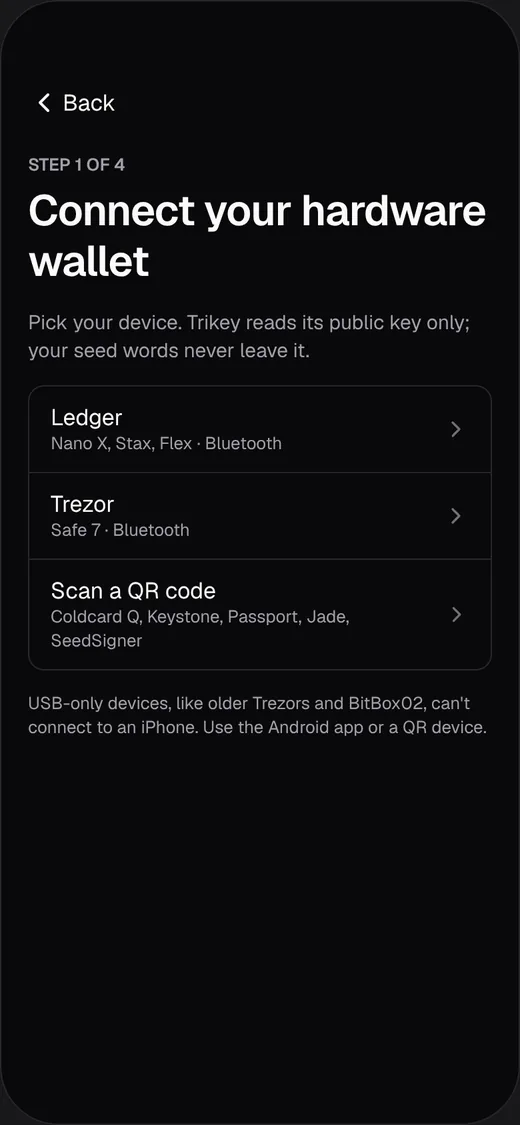
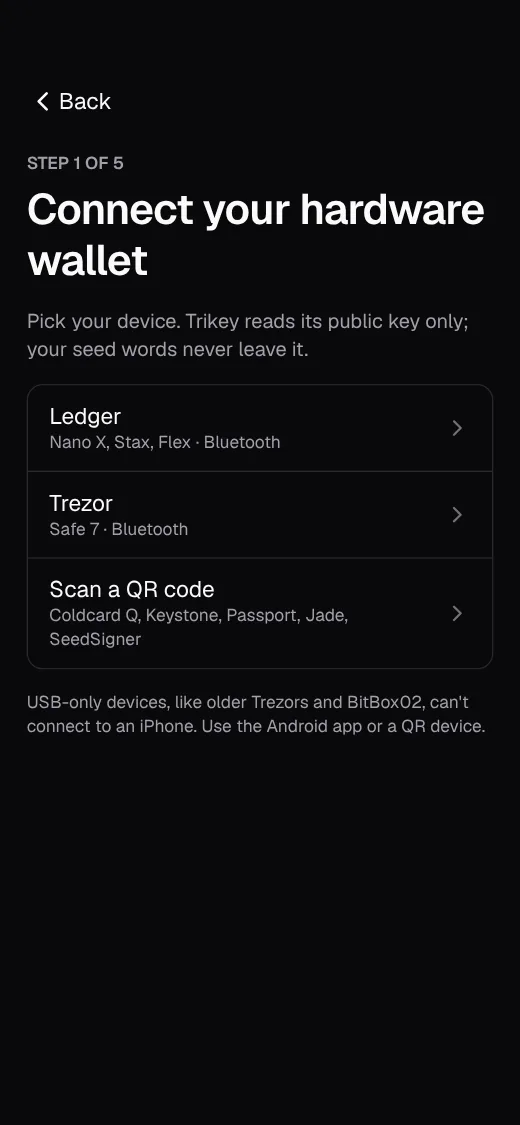
site: setup step pictures from the app as it is now
The first three setup step pictures were design mock-ups that no longer match
the app ("Step x of 4"). They are now the app's own screens, captured from its
web build in Demo mode without the demo strip, in light and dark, like the
backup step. Alt texts describe the new screens.

Claude-Session: https://claude.ai/code/session_01ScL3BP1Yp5A8vYx4vddmNN

diff --git a/site/index.html b/site/index.html
@@ -507,7 +507,7 @@
         <li class="step">
           <picture>
             <source srcset="img/phone-onb-hardware-dark.webp" media="(prefers-color-scheme: dark)">
-            <img class="phone" src="img/phone-onb-hardware.webp" width="520" height="1125" loading="lazy" alt="Onboarding step 1 of 4, Connect your hardware wallet: Ledger or Trezor over Bluetooth, or scan a QR code for Coldcard Q, Keystone, Passport, Jade and SeedSigner.">
+            <img class="phone" src="img/phone-onb-hardware.webp" width="520" height="1125" loading="lazy" alt="Onboarding, Connect your hardware wallet: Ledger or Trezor over Bluetooth, or scan a QR code for Coldcard Q, Keystone, Passport, Jade and SeedSigner.">
           </picture>
           <p class="mono step-n">01</p>
           <h3>Connect your hardware wallet</h3>
@@ -516,7 +516,7 @@
         <li class="step">
           <picture>
             <source srcset="img/phone-onb-guardian-dark.webp" media="(prefers-color-scheme: dark)">
-            <img class="phone" src="img/phone-onb-guardian.webp" width="520" height="1125" loading="lazy" alt="Onboarding step 2 of 4, Pair your guardian: open Trikey Guardian on your Umbrel or Start9, choose Pair a phone and point the camera at the code.">
+            <img class="phone" src="img/phone-onb-guardian.webp" width="520" height="1125" loading="lazy" alt="Onboarding, Pair your guardian: open Trikey Guardian on your Umbrel or Start9, choose Pair a phone and point the camera at the code. It works from anywhere, and nothing is opened at home.">
           </picture>
           <p class="mono step-n">02</p>
           <h3>Pair your guardian</h3>
@@ -525,7 +525,7 @@
         <li class="step">
           <picture>
             <source srcset="img/phone-onb-limit-dark.webp" media="(prefers-color-scheme: dark)">
-            <img class="phone" src="img/phone-onb-limit.webp" width="520" height="1125" loading="lazy" alt="Onboarding step 3 of 4, Set your daily limit.">
+            <img class="phone" src="img/phone-onb-limit.webp" width="520" height="1125" loading="lazy" alt="Onboarding, Your protection: a daily limit for phone-only payments of 200,000 sats and a 7-day security waiting period, recommended, with Change and Approve on Ledger.">
           </picture>
           <p class="mono step-n">03</p>
           <h3>Set your daily limit</h3>

diff --git a/site/README.md b/site/README.md
@@ -13,7 +13,7 @@ a plain stack of cards and reads the same.
 | `media/films/` | The films for the web: "Nobody in the middle" in the hero, the three "If a key goes missing" episodes in the key picker, and in "Watch" the three short explainers (`v1`–`v3`) and the six setup tutorials (`t1`–`t6`). 720p H.264, a poster and a WebVTT captions file each. The films and explainers have captions burned in too. Nothing loads until someone presses play. Exported from the marketing repo with `render/web-export.py` |
 | `js/story.js` | Scroll scenes: sticky stages, shot timing, video scrubbing. Progressive enhancement only |
 | `404.html` | Not-found page (Vercel serves it automatically) |
-| `img/` | Phone screenshots, rendered from `design/screens` (light and dark WebP). `phone-onb-backup` is the app's own backup step (recovery code plus file), captured from its web build in Demo mode without the demo strip |
+| `img/` | Phone screenshots, rendered from `design/screens` (light and dark WebP). The four `phone-onb-*` images are the app's own setup steps, captured from its web build in Demo mode without the demo strip |
 | `media/` | Photos (WebP) and three short muted video loops (H.264 MP4, under 1 MB each) taken from the launch film footage, plus one generated still of the three keys. Loops are hidden for people who prefer reduced motion; the poster image stays. |
 | `fonts/` | Geist and Geist Mono (latin, variable `woff2`) with their OFL license texts |
 | `favicon.svg` | The logo |
